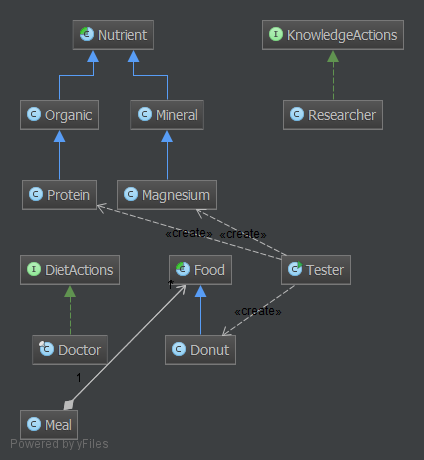
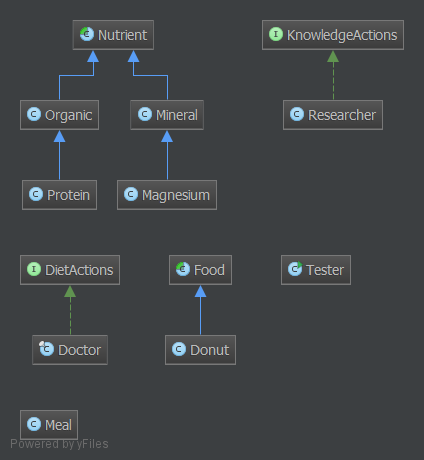
updated readme re: performance, fixed diagrams

diff --git a/README.MD b/README.MD
@@ -6,14 +6,17 @@ An ambitious project, which eventually is intended to provide a full gamut repre
 Another goal is to demonstrate mastery of Java object-oriented concepts, including inheritance, encapsulation, polymorphism. This to be demonstrated with `abstract  class`, `interface`, and so forth.  Named Donut in honor of the inspiring moment where I decided to track the absurdity of measuring objectively the health benefit of a series of sweet delicious foods. It's a temporary placeholder name.
 
 #### Status
-In progress. Majority of initial commits were just me making notes as i explored implementation details. The real implementation is beginning to be formed, it's barely an interface at the moment.
+Design in progress. No front end. Tester class contains logic for populating and triggering.
+
+#### Performance
+This concept clearly won't perform well with the millions of records that the USDA database provides, the memory footprint is too high to store every food item as an object. That data will go into database and be queried instead. A major refactoring stage would occur later, once familiarized with problem-domain.
 
 Current:
-![readme image][3]
+![readme image][1]
 
 Simpler:
-![readme image][1]
+![readme image][2]
 
   [1]: https://raw.githubusercontent.com/nastajus/Donut/master/diagram.png
   [2]: https://raw.githubusercontent.com/nastajus/Donut/master/diagram2.png
-  [3]: https://raw.githubusercontent.com/nastajus/Donut/master/diagram3.png
+  
